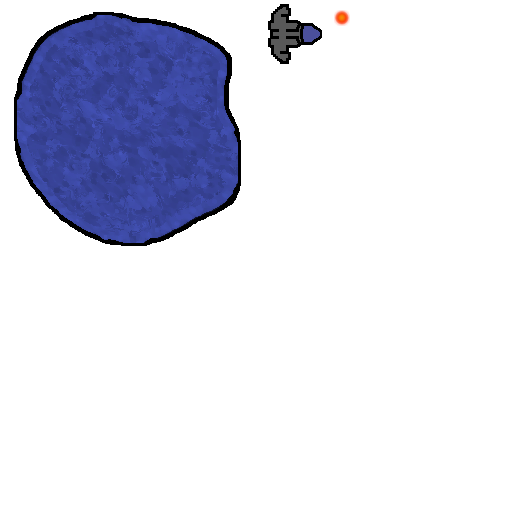
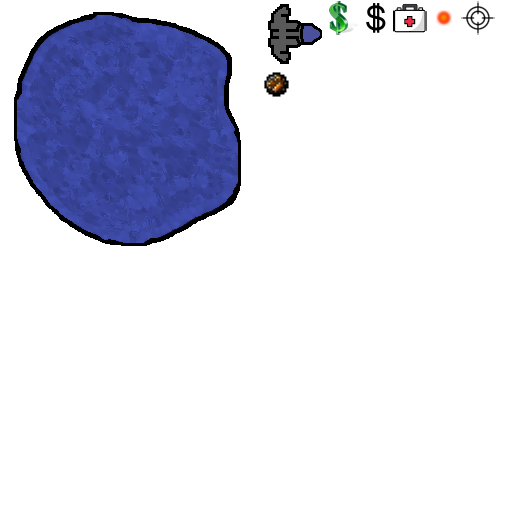
hw_4

Changed region(s): [[0.7188, 0.0, 0.9688, 0.0625], [0.625, 0.0, 0.6875, 0.0625], [0.5, 0.125, 0.5625, 0.1875]]

diff --git a/core/src/com/star/app/game/GameController.java b/core/src/com/star/app/game/GameController.java
@@ -10,6 +10,7 @@ public class GameController {
     private BulletController bulletController;
     private ParticleController particleController;
     private AsteroidController asteroidController;
+    private PowerUpsController powerUpsController;
     private Vector2 tempVec;
 
     public GameController() {
@@ -19,6 +20,7 @@ public class GameController {
         this.bulletController = new BulletController(this);
         this.tempVec = new Vector2();
         this.particleController = new ParticleController();
+        this.powerUpsController = new PowerUpsController();
         for (int i = 0; i < 3; i++) {
             asteroidController.setup(MathUtils.random(0, ScreenManager.SCREEN_WIDTH),
                     MathUtils.random(0, ScreenManager.SCREEN_HEIGHT),
@@ -46,12 +48,17 @@ public class GameController {
         return particleController;
     }
 
+    public PowerUpsController getPowerUpsController() {
+        return powerUpsController;
+    }
+
     public void update(float dt) {
         background.update(dt);
         hero.update(dt);
         bulletController.update(dt);
         particleController.update(dt);
         asteroidController.update(dt);
+        powerUpsController.update();
         checkCollisions();
     }
 
@@ -94,6 +101,18 @@ public class GameController {
                     break;
                 }
             }
+        }
+        if (PowerUps.MEDICINE.getHitArea().overlaps(hero.getHitArea())) {
+            PowerUps.MEDICINE.deactivate();
+            hero.upHp(30);
+        }
+        if (PowerUps.AMMO.getHitArea().overlaps(hero.getHitArea())) {
+            PowerUps.AMMO.deactivate();
+            hero.getCurWeapon().upBullets(50);
+        }
+        if (PowerUps.MONEY.getHitArea().overlaps(hero.getHitArea())) {
+            PowerUps.MONEY.deactivate();
+            hero.upMoney(50);
         }
     }
 }

diff --git a/core/src/com/star/app/game/Hero.java b/core/src/com/star/app/game/Hero.java
@@ -24,6 +24,7 @@ public class Hero {
     private int scoreView;
     private int hpMax;
     private int hp;
+    private int money;
     private StringBuilder sb;
     private Circle hitArea;
     private Weapon curWeapon;
@@ -44,6 +45,10 @@ public class Hero {
         return angle;
     }
 
+    public Weapon getCurWeapon() {
+        return curWeapon;
+    }
+
     public Hero(GameController gc) {
         this.texture = Assets.getInstance().getAtlas().findRegion("ship");
         this.position = new Vector2(ScreenManager.SCREEN_WIDTH / 2, ScreenManager.SCREEN_HEIGHT / 2);
@@ -53,6 +58,7 @@ public class Hero {
         this.gc = gc;
         this.hpMax = 100;
         this.hp = hpMax;
+        this.money = 0;
         this.sb = new StringBuilder();
         this.hitArea = new Circle(position, 29);
         this.curWeapon = new Weapon(gc, this, "Laser", 0.1f,
@@ -69,6 +75,7 @@ public class Hero {
         sb.append("SCORE: ").append(scoreView).append("\n");
         sb.append("HP: ").append(hp).append("/").append(hpMax).append("\n");
         sb.append("BULLETS: ").append(curWeapon.getCurBullets()).append("/").append(curWeapon.getMaxBullets()).append("\n");
+        sb.append("$: ").append(money).append("\n");
         font.draw(batch, sb, 20, 700);
     }
 
@@ -183,5 +190,16 @@ public class Hero {
 
     public void takeDamage(int amount) {
         hp -= amount;
+    }
+
+    public void upHp(int amount) {
+        hp += amount;
+        if (hp > hpMax) {
+            hp = hpMax;
+        }
+    }
+
+    public void upMoney(int amount) {
+        money += amount;
     }
 }

diff --git a/core/src/com/star/app/game/PowerUps.java b/core/src/com/star/app/game/PowerUps.java
@@ -1,0 +1,52 @@
+package com.star.app.game;
+
+import com.badlogic.gdx.graphics.g2d.SpriteBatch;
+import com.badlogic.gdx.graphics.g2d.TextureRegion;
+import com.badlogic.gdx.math.Circle;
+import com.badlogic.gdx.math.Vector2;
+import com.star.app.game.helpers.Poolable;
+import com.star.app.screen.utils.Assets;
+
+public enum PowerUps implements Poolable {
+    MONEY(Assets.getInstance().getAtlas().findRegion("money")),
+    MEDICINE(Assets.getInstance().getAtlas().findRegion("med")),
+    AMMO(Assets.getInstance().getAtlas().findRegion("ammo"));
+
+    private TextureRegion texture;
+    private Vector2 position;
+    boolean active;
+    private Circle hitArea;
+    private final float BASE_SIZE = 32;
+    private final float BASE_RADIUS = BASE_SIZE / 2;
+
+    PowerUps(TextureRegion texture) {
+        this.texture = texture;
+        this.position = new Vector2();
+        this.active = false;
+        this.hitArea = new Circle(position, BASE_RADIUS);
+    }
+
+    @Override
+    public boolean isActive() {
+        return active;
+    }
+
+    public void render(SpriteBatch batch) {
+        batch.draw(texture, position.x - 16, position.y - 16, 16, 16,
+                32, 32, 1, 1, 0);
+    }
+
+    public void activate(float x, float y) {
+        position.set(x, y);
+        hitArea.setPosition(position);
+        active = true;
+    }
+
+    public void deactivate() {
+        active = false;
+    }
+
+    public Circle getHitArea() {
+        return hitArea;
+    }
+}

diff --git a/core/src/com/star/app/game/PowerUpsController.java b/core/src/com/star/app/game/PowerUpsController.java
@@ -1,0 +1,35 @@
+package com.star.app.game;
+
+import com.badlogic.gdx.graphics.g2d.SpriteBatch;
+import com.badlogic.gdx.math.MathUtils;
+import com.star.app.game.helpers.ObjectPool;
+
+import java.util.ArrayList;
+import java.util.Arrays;
+import java.util.List;
+
+public class PowerUpsController extends ObjectPool<PowerUps> {
+
+    @Override
+    protected PowerUps newObject() {
+        List<PowerUps> powerUps = new ArrayList<>(Arrays.asList(PowerUps.values()));
+        return powerUps.get(MathUtils.random(0, powerUps.size() - 1));
+    }
+
+    public void update() {
+        for (int i = 0; i < activeList.size(); i++) {
+            checkPool();
+        }
+    }
+
+    public void render(SpriteBatch batch) {
+        for (int i = 0; i < activeList.size(); i++) {
+            PowerUps p = activeList.get(i);
+            p.render(batch);
+        }
+    }
+
+    public void setup(float x, float y) {
+        getActiveElement().activate(x, y);
+    }
+}

diff --git a/core/src/com/star/app/game/Asteroid.java b/core/src/com/star/app/game/Asteroid.java
@@ -97,6 +97,9 @@ public class Asteroid implements Poolable {
         hp -= amount;
         if (hp <= 0) {
             deactivate();
+            if (MathUtils.random() < scale / 4) {
+                gc.getPowerUpsController().setup(position.x, position.y);
+            }
             if (scale > 0.3f) {
                 gc.getAsteroidController().setup(position.x, position.y,
                         MathUtils.random(-150, 150), MathUtils.random(-150, 150), scale - 0.25f);

diff --git a/core/src/com/star/app/game/Renderer.java b/core/src/com/star/app/game/Renderer.java
@@ -25,6 +25,7 @@ public class Renderer {
         gc.getParticleController().render(batch);
         gc.getHero().render(batch);
         gc.getHero().renderGUI(batch, font32);
+        gc.getPowerUpsController().render(batch);
         batch.end();
     }
 }

diff --git a/core/src/com/star/app/game/Weapon.java b/core/src/com/star/app/game/Weapon.java
@@ -61,4 +61,11 @@ public class Weapon {
             }
         }
     }
+
+    public void upBullets(int amount) {
+        curBullets += amount;
+        if (curBullets > maxBullets) {
+            curBullets = maxBullets;
+        }
+    }
 }
